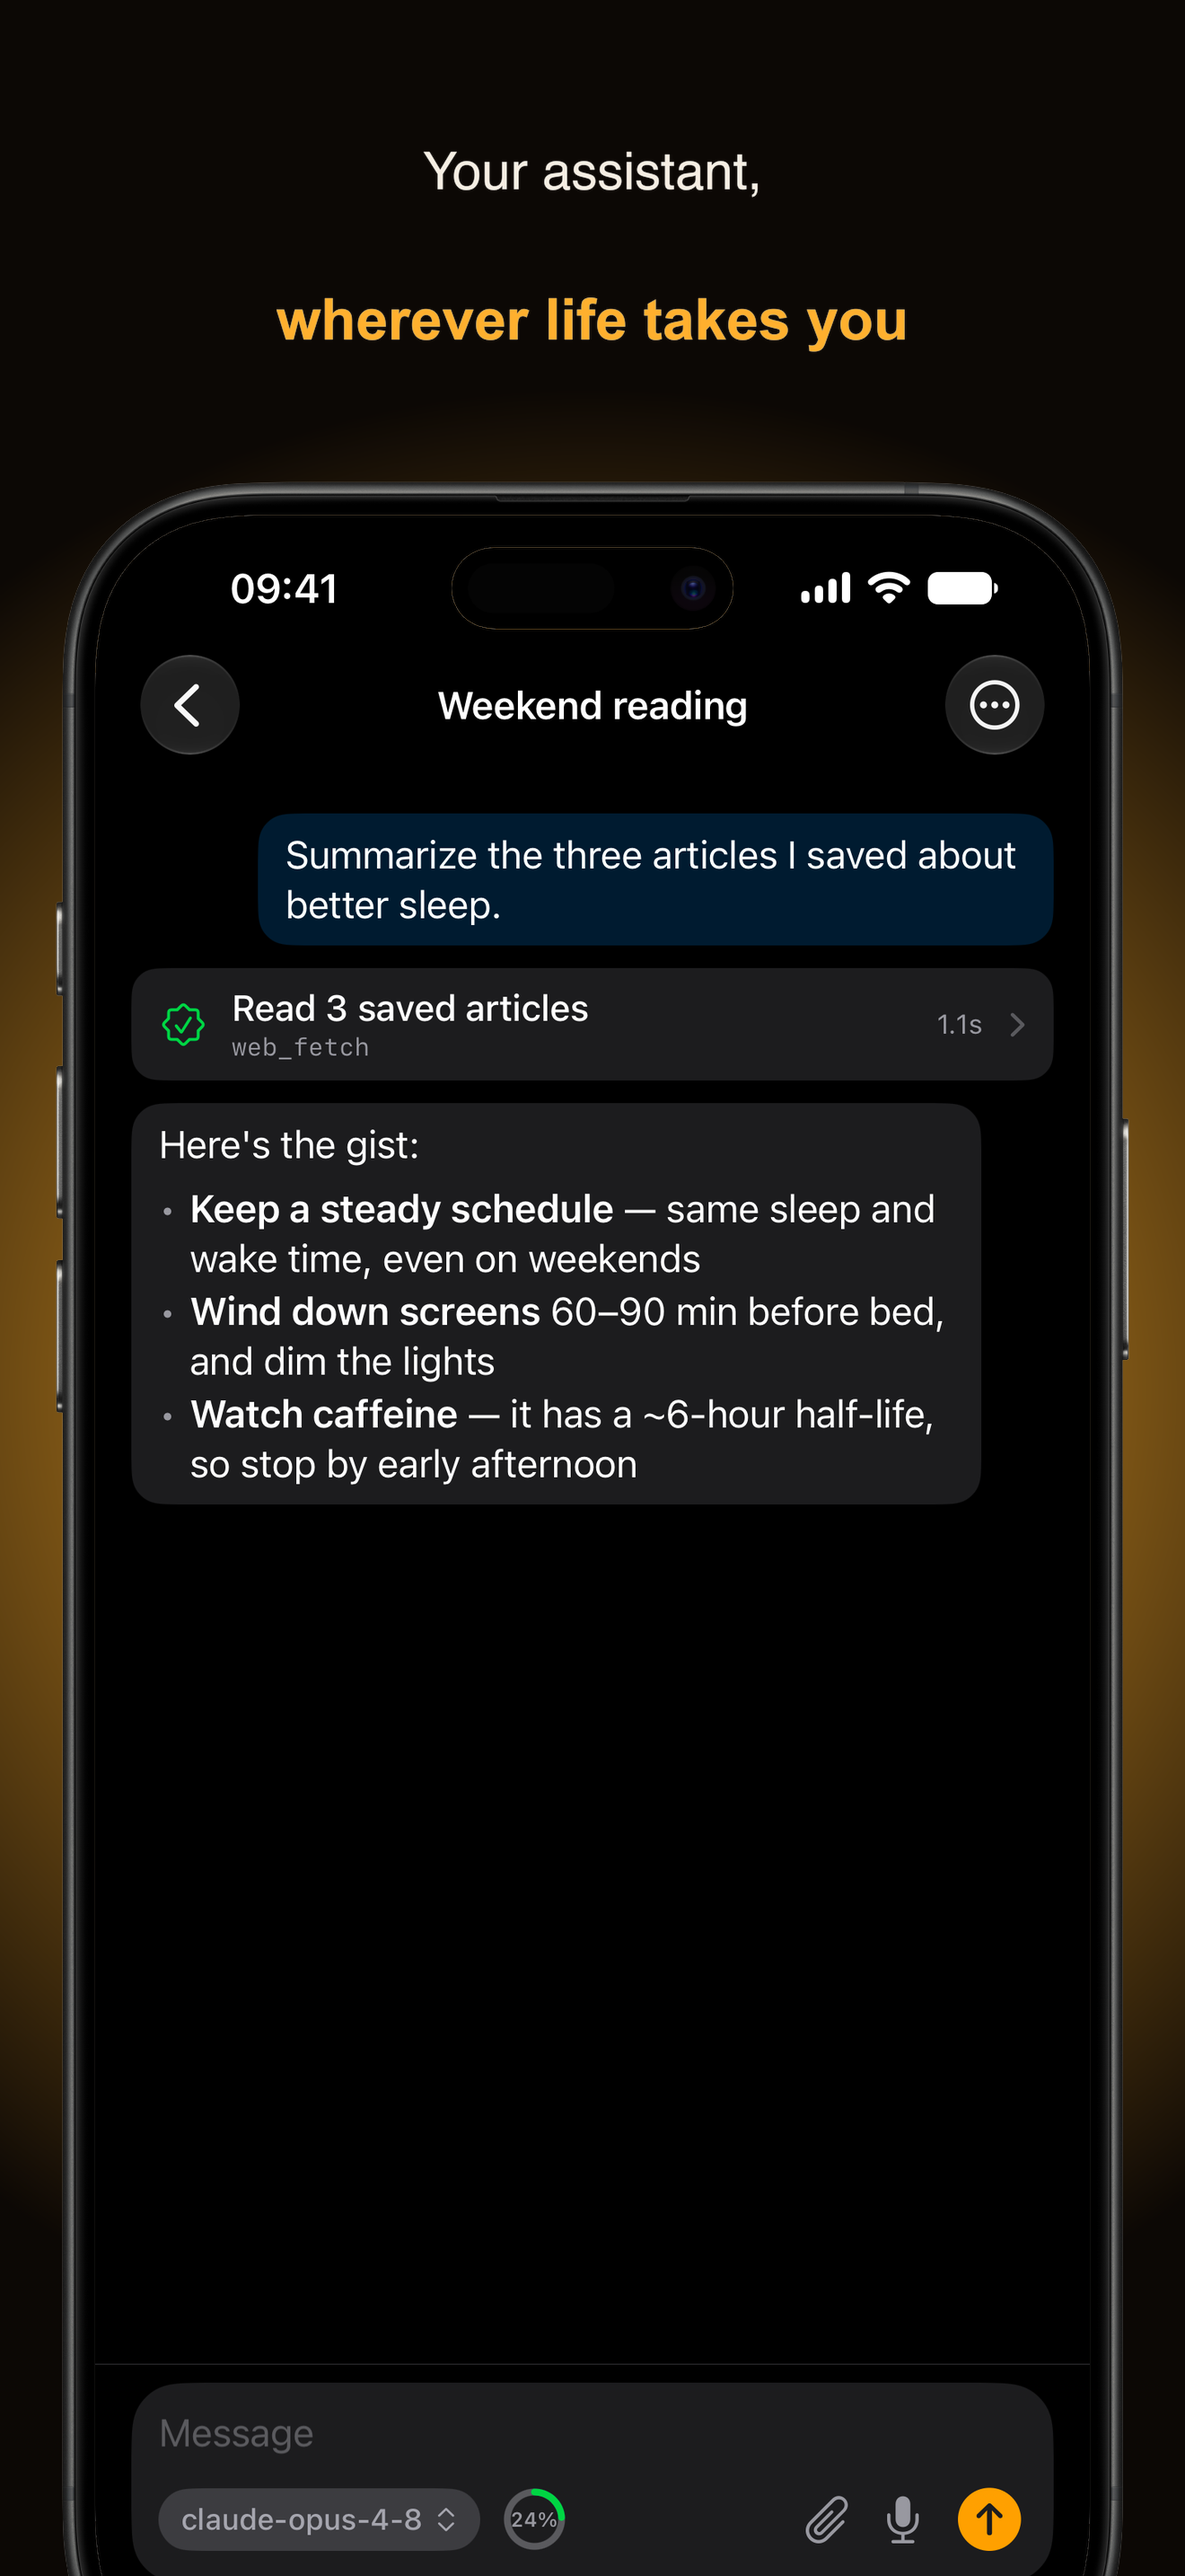
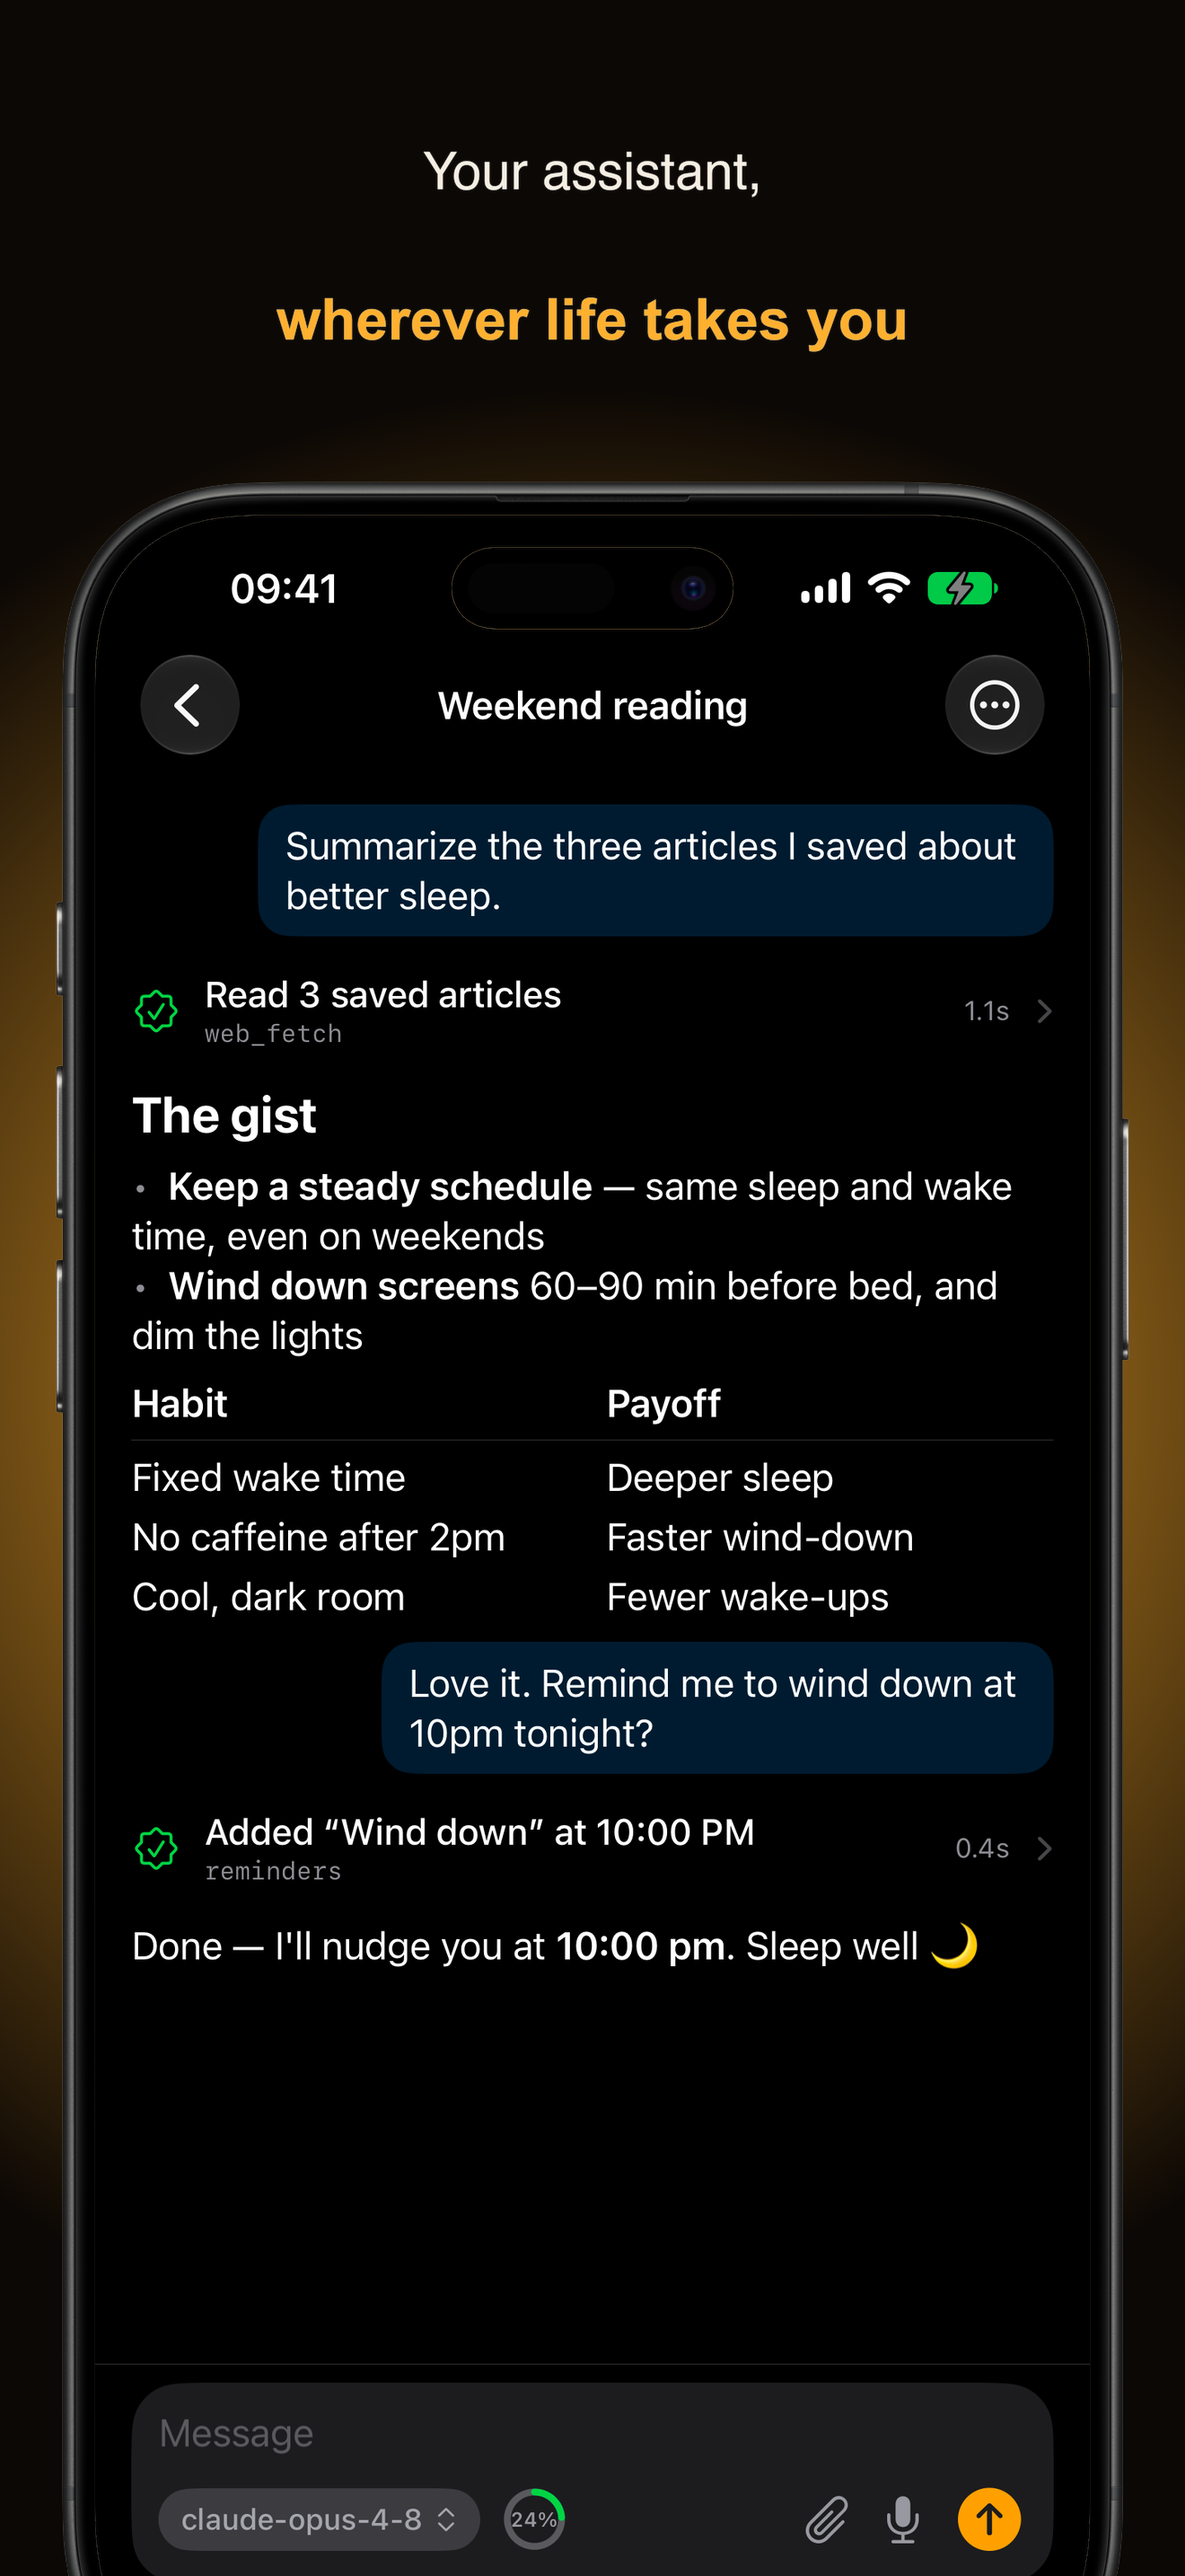
Refresh App Store screenshots for cron, push, and markdown UX
Claude-Session: https://claude.ai/code/session_01FCig4P1srXbkTshcDfEA9h

diff --git a/HermesMobile/Sources/DemoMode.swift b/HermesMobile/Sources/DemoMode.swift
@@ -52,6 +52,13 @@ enum DemoMode {
     deps.hermesProfiles.sessions = { _, _, _, _, _, _ in seededSessions }
     // The agent always exposes the default profile, so the "default" pill is always present.
     deps.hermesProfiles.list = { _ in [Profile(name: "default", isDefault: true)] }
+    // Keep the grouped Cron Jobs section frozen on the seeded jobs across polls.
+    deps.hermesREST.cronJobs = { _, _ in seededCronJobs }
+    // "notify" needs REAL notification permission (the panel captures a live banner from
+    // `simctl push`), so report the plugin ready → the reducer runs the OS permission
+    // prompt. Every other scenario reports unknown: no prompt, no sheet, no live REST.
+    let pushStatus: PushPluginStatus = scenario == "notify" ? .ready : .unknown
+    deps.hermesREST.pushPluginStatus = { _ in pushStatus }
     // Deterministic relative timestamps.
     deps.date = .constant(now)
     // Persisted UI prefs, pre-seeded so `reloadPrefs` keeps our curated grouping/pins.
@@ -64,9 +71,11 @@ enum DemoMode {
     client.loadGroupingMode = { .chronological }
     client.loadPinnedIDs = { ["s0"] }
     client.loadSeenCounts = {
-      // s1 has unread activity (seen < messageCount); the rest are caught up.
+      // s1 and the newest digest run have unread activity (seen < messageCount) — the
+      // cron run lights the job row's dot AND the section header's badge.
       var seen = Dictionary(uniqueKeysWithValues: seededSessions.map { ($0.id, $0.messageCount ?? 0) })
       seen["s1"] = 6
+      seen["cron_digest01_20260610_070000"] = 1
       return seen
     }
     return client
@@ -76,7 +85,9 @@ enum DemoMode {
 
   private static func state(for scenario: String) -> AppFeature.State {
     switch scenario {
-    case "sessions":
+    // "notify" shares the sessions backdrop — the panel's banner arrives live via
+    // `simctl push` after the scenario grants notification permission (see `configure`).
+    case "sessions", "notify":
       return AppFeature.State(home: sessionListState)
     case "work":
       return chatScenario(workChat)
@@ -122,19 +133,56 @@ enum DemoMode {
         isActive: t.2
       )
     }
-    // A cron-scheduled session → pulled into the always-on "Cron Jobs" section.
-    sessions.append(
+    // Cron run sessions → grouped under their jobs in the "Cron Jobs" section. The run
+    // id embeds the owning job id (`cron_{job_id}_{timestamp}`), exactly like the real
+    // scheduler names them. The digest has two runs (this morning + yesterday); the
+    // paused sweep has one.
+    sessions.append(contentsOf: [
       Session(
-        id: "cron0",
+        id: "cron_digest01_20260610_070000",
         title: "Morning news digest",
-        updatedAt: Date(timeIntervalSince1970: 1_749_560_000),
-        startedAt: Date(timeIntervalSince1970: 1_749_560_000),
+        updatedAt: Date(timeIntervalSince1970: 1_749_589_200),  // this morning, unread
+        startedAt: Date(timeIntervalSince1970: 1_749_589_200),
         messageCount: 3,
         source: "cron"
-      )
-    )
+      ),
+      Session(
+        id: "cron_digest01_20260609_070000",
+        title: "Morning news digest",
+        updatedAt: Date(timeIntervalSince1970: 1_749_502_800),  // yesterday
+        startedAt: Date(timeIntervalSince1970: 1_749_502_800),
+        messageCount: 3,
+        source: "cron"
+      ),
+      Session(
+        id: "cron_sweep02_20260609_180000",
+        title: "Evening inbox sweep",
+        updatedAt: Date(timeIntervalSince1970: 1_749_542_400),
+        startedAt: Date(timeIntervalSince1970: 1_749_542_400),
+        messageCount: 2,
+        source: "cron"
+      ),
+    ])
     return sessions
   }()
+
+  /// The cron *jobs* the runs above belong to: the digest is live with a visible
+  /// next-run countdown; the sweep is paused (amber pip, schedule line).
+  private static let seededCronJobs: [CronJob] = [
+    CronJob(
+      id: "digest01",
+      name: "Morning news digest",
+      scheduleDisplay: "every day at 07:00",
+      state: "scheduled",
+      nextRunAt: Date(timeIntervalSince1970: 1_749_600_000 + 21 * 3_600)  // "in 21 hr."
+    ),
+    CronJob(
+      id: "sweep02",
+      name: "Evening inbox sweep",
+      scheduleDisplay: "every day at 18:00",
+      state: "paused"
+    ),
+  ]
 
   private static var sessionListState: SessionListFeature.State {
     SessionListFeature.State(
@@ -142,7 +190,10 @@ enum DemoMode {
       sessions: IdentifiedArray(uniqueElements: seededSessions),
       now: now,
       pinnedIDs: ["s0"],
-      groupingMode: .chronological
+      groupingMode: .chronological,
+      cronJobs: IdentifiedArray(uniqueElements: seededCronJobs),
+      // The digest's peek starts open so the panel shows job → runs at a glance.
+      expandedCronJobID: "digest01"
     )
   }
 
@@ -165,7 +216,16 @@ enum DemoMode {
           detail: ToolDetail(resultText: "3 articles"), durationS: 1.1)),
         ChatRow(id: rowID(2), kind: .message(
           role: .assistant,
-          text: "Here's the gist:\n\n- **Keep a steady schedule** — same sleep and wake time, even on weekends\n- **Wind down screens** 60–90 min before bed, and dim the lights\n- **Watch caffeine** — it has a ~6-hour half-life, so stop by early afternoon",
+          text: "## The gist\n\n- **Keep a steady schedule** — same sleep and wake time, even on weekends\n- **Wind down screens** 60–90 min before bed, and dim the lights\n\n| Habit | Payoff |\n| --- | --- |\n| Fixed wake time | Deeper sleep |\n| No caffeine after 2pm | Faster wind-down |\n| Cool, dark room | Fewer wake-ups |",
+          isComplete: true)),
+        ChatRow(id: rowID(3), kind: .message(
+          role: .user, text: "Love it. Remind me to wind down at 10pm tonight?", isComplete: true)),
+        ChatRow(id: rowID(4), kind: .tool(
+          name: "reminders", title: "Added “Wind down” at 10:00 PM", state: .complete,
+          detail: ToolDetail(resultText: "reminder set"), durationS: 0.4)),
+        ChatRow(id: rowID(5), kind: .message(
+          role: .assistant,
+          text: "Done — I'll nudge you at **10:00 pm**. Sleep well 🌙",
           isComplete: true)),
       ]),
       status: .ready
